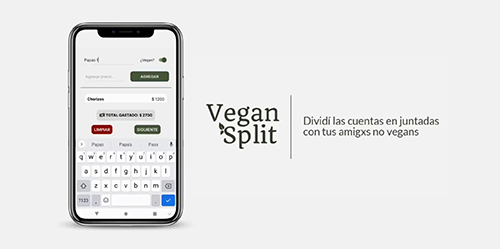
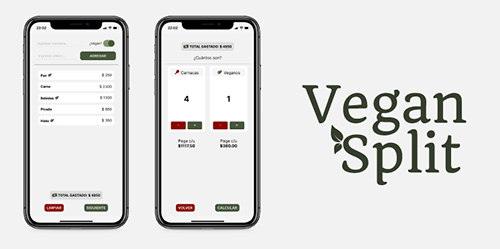
New projects added

Changed region(s): [[0.03, 0.0562, 0.93, 0.9277]]

diff --git a/src/components/Proyects/Proyects.js b/src/components/Proyects/Proyects.js
@@ -25,6 +25,76 @@ const Proyects = () => {
 				<Fade bottom cascade>
 					<CardGroup className='groupContainer'>
 						<Card className='card'>
+							<Card.Img variant='top' src={img4} className='cardImg' />
+							<Card.Body>
+								<Card.Title className='cardTitle'>Vegan Split</Card.Title>
+								<Card.Text className='cardText'>
+									Mobile app that helps to divide the expenses in events where
+									there are vegans and non-vegans. Created with React Native.{' '}
+								</Card.Text>
+							</Card.Body>
+							<Card.Footer className='cardFooter'>
+								<small>
+									See more about this proyect{' '}
+									<a
+										href='https://play.google.com/store/apps/details?id=com.nicopicotto.VeganSplit'
+										target='_blank'
+									>
+										<BsDisplayFill className='seeMoreIcons' />{' '}
+									</a>
+									<a
+										href='https://github.com/NicoPicotto/Vegan-Split'
+										target='_blank'
+									>
+										<BsGithub />
+									</a>{' '}
+									<a
+										href='https://www.behance.net/gallery/144563199/Vegan-Split-App-mobile'
+										target='_blank'
+									>
+										<BsBehance />
+									</a>
+								</small>
+							</Card.Footer>
+						</Card>
+						<Card className='card'>
+							<Card.Img variant='top' src={img7} className='cardImg' />
+							<Card.Body>
+								<Card.Title className='cardTitle'>De Paso</Card.Title>
+								<Card.Text className='cardText'>
+									Mobile app that to saves your moments. You can set text, photo
+									and geolocation. Created with React Native, Redux, and SQLite.{' '}
+								</Card.Text>
+							</Card.Body>
+							<Card.Footer className='cardFooter'>
+								<small>
+									See more about this proyect{' '}
+									<a
+										href='https://apps.apple.com/app/id1629212811'
+										target='_blank'
+									>
+										<BsDisplayFill className='seeMoreIcons' />{' '}
+									</a>
+									<a
+										href='https://github.com/NicoPicotto/saveMomentsApp'
+										target='_blank'
+									>
+										<BsGithub />
+									</a>{' '}
+									<a
+										href='https://www.behance.net/gallery/143247971/Unique-Travel-Blog-App-mobile'
+										target='_blank'
+									>
+										<BsBehance />
+									</a>
+								</small>
+							</Card.Footer>
+						</Card>
+					</CardGroup>
+				</Fade>
+				<Fade bottom cascade>
+					<CardGroup className='groupContainer'>
+						<Card className='card'>
 							<Card.Img variant='top' src={img2} className='cardImg' />
 							<Card.Body>
 								<Card.Title className='cardTitle'>Pinturerías Norte</Card.Title>
@@ -50,78 +120,6 @@ const Proyects = () => {
 									</a>{' '}
 									<a
 										href='https://www.behance.net/gallery/134212771/Sitio-Web-Pinturerias-Norte'
-										target='_blank'
-									>
-										<BsBehance />
-									</a>
-								</small>
-							</Card.Footer>
-						</Card>
-						<Card className='card'>
-							<Card.Img variant='top' src={img3} className='cardImg' />
-							<Card.Body>
-								<Card.Title className='cardTitle'>
-									Karina Aguirre's Art Workshop
-								</Card.Title>
-								<Card.Text className='cardText'>
-									E-commerce for local artist & educator, using HTML, CSS and
-									JavaScript.{' '}
-								</Card.Text>
-							</Card.Body>
-							<Card.Footer className='cardFooter'>
-								<small>
-									See more about this proyect{' '}
-									<a
-										href='https://amazing-mestorf-02bced.netlify.app/'
-										target='_blank'
-									>
-										<BsDisplayFill className='seeMoreIcons' />{' '}
-									</a>
-									<a
-										href='https://github.com/NicoPicotto/tallerArteKarinaAguirre'
-										target='_blank'
-									>
-										<BsGithub />
-									</a>{' '}
-									<a
-										href='https://www.behance.net/gallery/134212265/Sitio-Web-Karina-Aguirre-Taller-de-Arte'
-										target='_blank'
-									>
-										<BsBehance />
-									</a>
-								</small>
-							</Card.Footer>
-						</Card>
-					</CardGroup>
-				</Fade>
-				<Fade bottom cascade>
-					<CardGroup className='groupContainer'>
-						<Card className='card'>
-							<Card.Img variant='top' src={img4} className='cardImg' />
-							<Card.Body>
-								<Card.Title className='cardTitle'>Vegan Split</Card.Title>
-								<Card.Text className='cardText'>
-									Mobile application that helps to divide the expenses in events
-									where there are vegans and non-vegans.{' '}
-								</Card.Text>
-							</Card.Body>
-							<Card.Footer className='cardFooter'>
-								<small>
-									See more about this proyect{' '}
-									<a
-										href='https://play.google.com/store/apps/details?id=com.nicopicotto.VeganSplit'
-										target='_blank'
-									>
-										<BsDisplayFill className='seeMoreIcons' />{' '}
-									</a>
-									<a
-										href='https://github.com/NicoPicotto/Vegan-Split'
-										target='_blank'
-									>
-										<BsGithub />
-									</a>{' '}
-									<a
-										href='https://www.behance.net/gallery/144563199/Vegan-Split-App-mobile'
 										target='_blank'
 									>
 										<BsBehance />
@@ -166,34 +164,33 @@ const Proyects = () => {
 				<Fade bottom cascade>
 					<CardGroup className='groupContainer'>
 						<Card className='card'>
-							<Card.Img variant='top' src={img7} className='cardImg' />
+							<Card.Img variant='top' src={img3} className='cardImg' />
 							<Card.Body>
 								<Card.Title className='cardTitle'>
-									Travel Blog type mobile app
+									Karina Aguirre's Art Workshop
 								</Card.Title>
 								<Card.Text className='cardText'>
-									Mobile application used to save moments. You can save text,
-									photo and geolocation. Created using React Native, Redux, and
-									SQLite.{' '}
+									E-commerce for local artist & educator. Created with HTML, CSS
+									and JavaScript.{' '}
 								</Card.Text>
 							</Card.Body>
 							<Card.Footer className='cardFooter'>
 								<small>
 									See more about this proyect{' '}
 									<a
-										href='https://drive.google.com/drive/folders/1GgTMvKUHgipQ6MkUB23w30aKS2MzZmwM'
+										href='https://amazing-mestorf-02bced.netlify.app/'
 										target='_blank'
 									>
 										<BsDisplayFill className='seeMoreIcons' />{' '}
 									</a>
 									<a
-										href='https://github.com/NicoPicotto/saveMomentsApp'
+										href='https://github.com/NicoPicotto/tallerArteKarinaAguirre'
 										target='_blank'
 									>
 										<BsGithub />
 									</a>{' '}
 									<a
-										href='https://www.behance.net/gallery/143247971/Unique-Travel-Blog-App-mobile'
+										href='https://www.behance.net/gallery/134212265/Sitio-Web-Karina-Aguirre-Taller-de-Arte'
 										target='_blank'
 									>
 										<BsBehance />
@@ -208,8 +205,8 @@ const Proyects = () => {
 									Personal Portfolio
 								</Card.Title>
 								<Card.Text className='cardText'>
-									Personal portfolio that shows my skills and proyects Created
-									using ReactJs, React Bootstrap, React Icons and React Reveal.{' '}
+									Personal portfolio that shows my skills and proyects. Created
+									with ReactJs, React Bootstrap, React Icons and React Reveal.{' '}
 								</Card.Text>
 							</Card.Body>
 							<Card.Footer className='cardFooter'>
